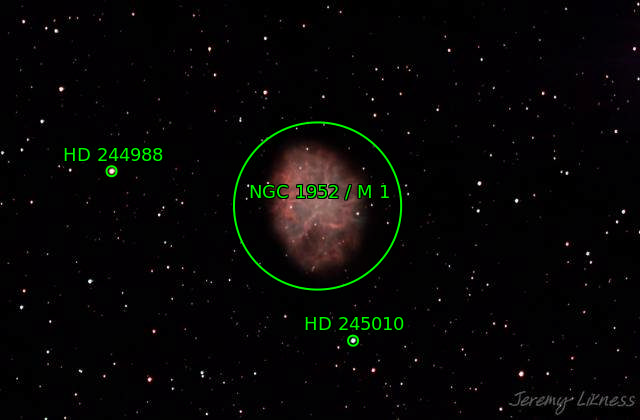
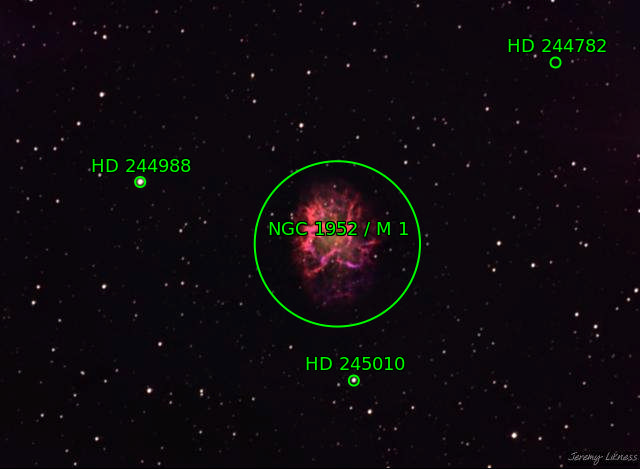
bettah crab

diff --git a/assets/images/gallery/crab/crab.md b/assets/images/gallery/crab/crab.md
@@ -1,0 +1,21 @@
+---
+title: "crab"
+type:
+tags: ["M 1","NGC 1952"]
+description:
+image: /assets/images/gallery/crab/thumb.jpg
+telescope: Stellina
+length: "400mm"
+aperture: "80mm"
+folder: crab
+exposure: 
+lights: 
+sessions: 
+firstCapture: 
+lastCapture:
+ra: "5h 34m 32.1s"
+dec: "+22° 01' 49.852"
+size: "30.971 x 22.671 arcmin"
+radius: "0.32 deg"
+scale: "0.316 arcsec/pixel"
+---

diff --git a/_gallery/crab.md b/_gallery/crab.md
@@ -14,9 +14,9 @@ lights: 43
 sessions: 3
 firstCapture: 2022-02-28 
 lastCapture: 2022-10-01
-ra: "5h 34m 32.5s"
-dec: "+22° 00' 41.391"
-size: "30.627 x 20.089 arcmin"
-radius: "0.305 deg"
-scale: "0.57 arcsec/pixel"
+ra: "5h 34m 32.1s"
+dec: "+22° 01' 49.852"
+size: "30.971 x 22.671 arcmin"
+radius: "0.32 deg"
+scale: "0.316 arcsec/pixel"
 ---
